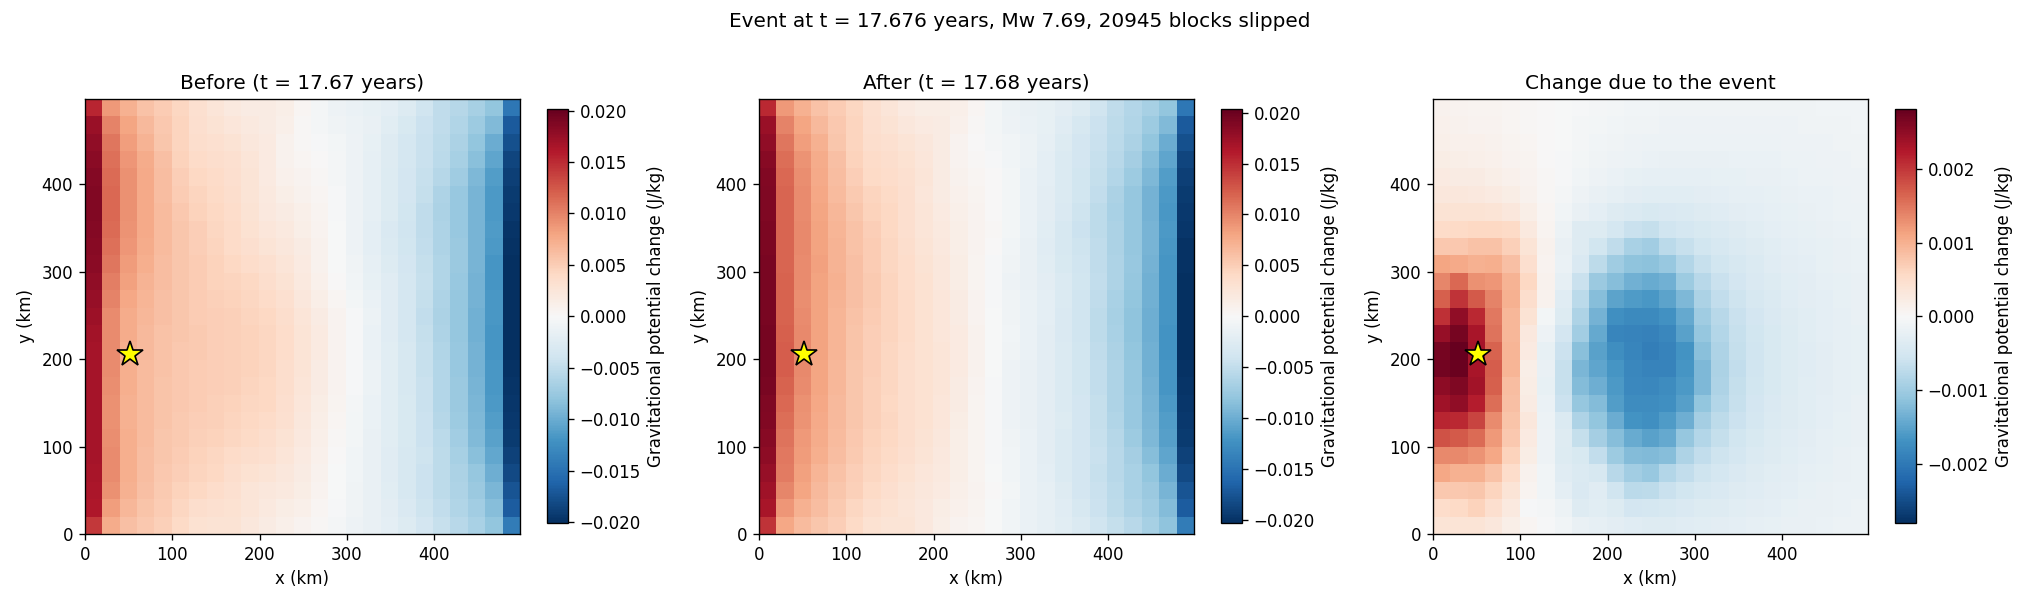
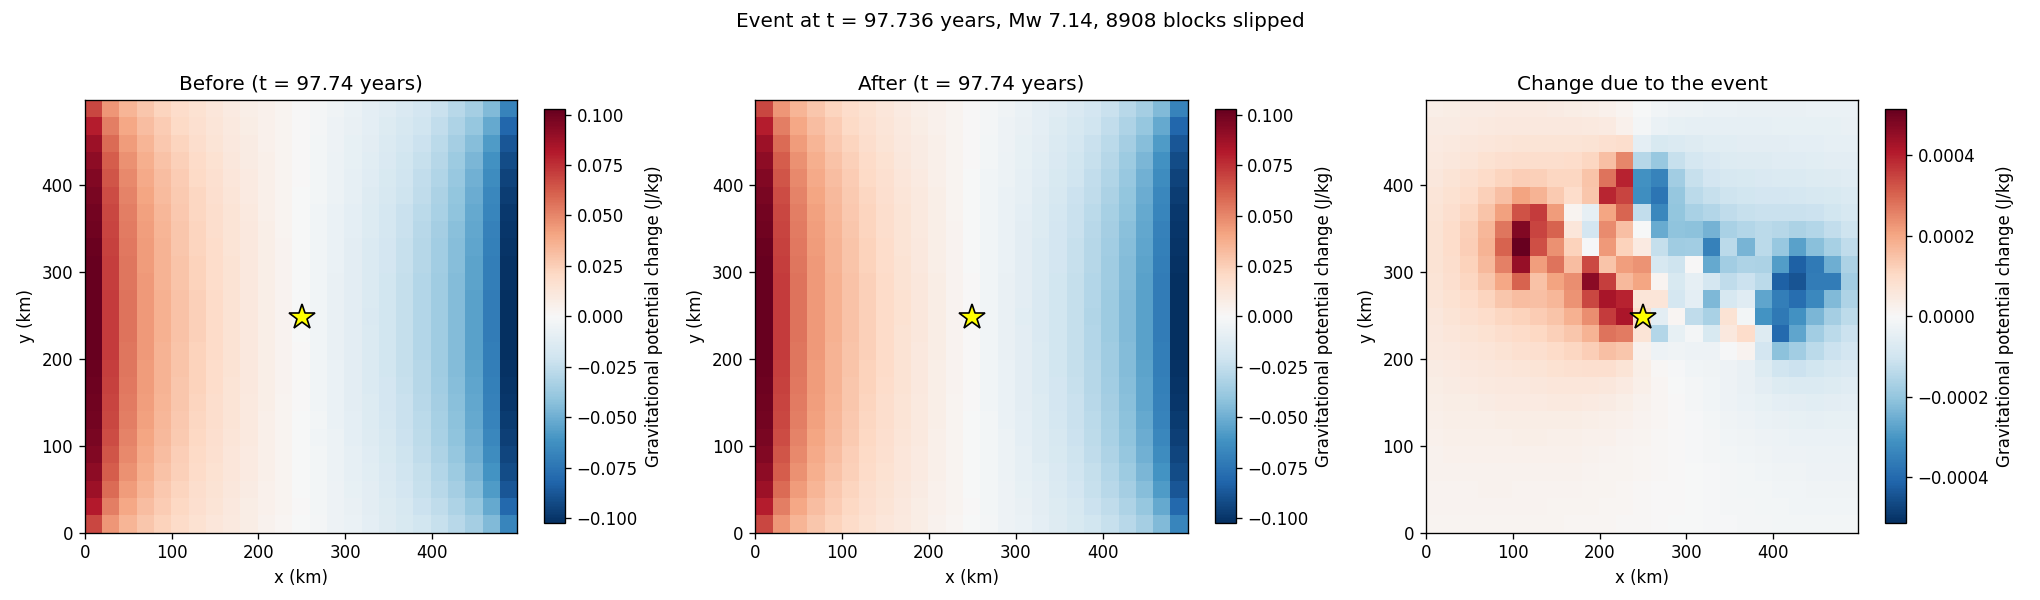
docs: README event figure centred on the grid
Mw 7.14 event starting at (250, 248) km, the largest near the centre of
the 500 km run. The potential change is from the states just before and
after this event alone (replayed run): the sample window around it also
holds a second Mw 7.14 event, which the sample-to-sample difference mixed in.

diff --git a/README.md b/README.md
@@ -14,7 +14,7 @@ caused by the motion of the fault.
 - NPZ/CSV output, animation, event maps and magnitude-frequency plot
 - 126 tests (plus time/memory/statistics budgets), including analytic checks of the dynamics
 
-![Potential change before and after a Mw 7.7 event (default 500 km run)](docs/event_comparison_500km.png)
+![Potential change before and after a Mw 7.1 event starting at the centre of the grid, (250, 248) km (default 500 km run)](docs/event_comparison_500km.png)
 
 ## Quick start
 
